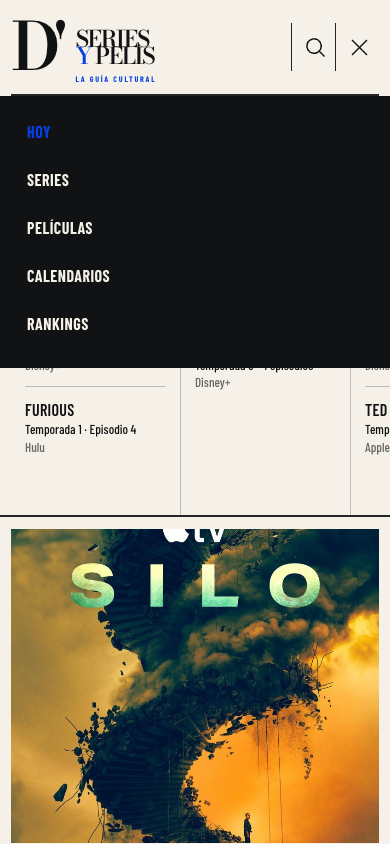
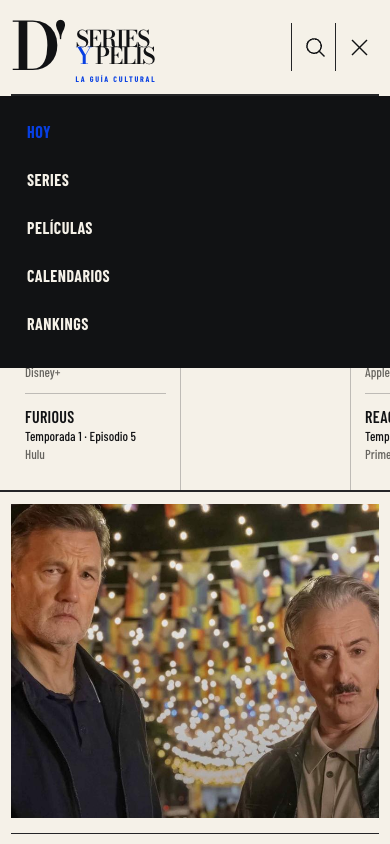
feat: refine editorial data and series statuses

diff --git a/src/app/globals.css b/src/app/globals.css
@@ -47,9 +47,9 @@ main { min-height: 80vh; }
 
 /* Home cover */
 .editorial-hero { padding-top: 14px; }
-.hero-title-row { min-height: 126px; display: flex; flex-direction: column; justify-content: flex-end; border-bottom: 1px solid var(--rule); }
+.hero-title-row { min-height: 126px; padding-bottom: clamp(18px, 1.4vw, 26px); display: flex; flex-direction: column; justify-content: flex-end; border-bottom: 1px solid var(--rule); }
 .hero-title-row > span { margin-bottom: 9px; color: var(--blue); font: 700 11px/1 var(--ui); letter-spacing: .16em; }
-.hero-title-row h1 { margin: 0 0 5px; font: 400 clamp(62px, 7vw, 108px)/.9 var(--display); letter-spacing: -.075em; }
+.hero-title-row h1 { margin: 0; font: 400 clamp(62px, 7vw, 108px)/.9 var(--display); letter-spacing: -.075em; }
 .week-ledger { display: grid; grid-template-columns: repeat(7, 1fr); border-bottom: 2px solid var(--rule); }
 .ledger-day { min-width: 0; min-height: 266px; padding: 18px 14px 14px; border-right: 1px solid var(--soft-rule); }
 .ledger-day:last-child { border-right: 0; }
@@ -85,15 +85,18 @@ main { min-height: 80vh; }
 .button-ghost { color: var(--ink); background: transparent; }
 .premiere-list { padding: 12px 0 0 28px; }
 .premiere-head { height: 32px; display: flex; justify-content: space-between; border-bottom: 2px solid var(--rule); }
-.premiere-head span, .premiere-head a { color: var(--blue); font: 700 13px/1 var(--ui); letter-spacing: .1em; text-transform: uppercase; }
-.premiere-head a { padding-inline: 15px; color: white; background: var(--blue); }
-.premiere-list > a:not(.premiere-all) { min-height: 88px; padding-block: 9px; display: grid; grid-template-columns: 132px 1fr; gap: 14px; border-bottom: 1px solid var(--soft-rule); }
-.premiere-list > a > div { height: 70px; }
-.premiere-list > a > div .poster img { object-position: center 25%; }
-.premiere-list > a > span { display: flex; flex-direction: column; justify-content: center; }
+.premiere-head span { color: var(--blue); font: 700 13px/1 var(--ui); letter-spacing: .1em; text-transform: uppercase; }
+.premiere-tabs { align-self: stretch; display: flex; }
+.premiere-tabs button { padding-inline: 12px; border: 0; border-left: 1px solid var(--rule); color: var(--blue); background: transparent; cursor: pointer; font: 700 11px/1 var(--ui); letter-spacing: .06em; text-transform: uppercase; }
+.premiere-tabs button.active { color: white; background: var(--blue); }
+.premiere-item { min-height: 88px; padding-block: 9px; display: grid; grid-template-columns: 132px 1fr; gap: 14px; border-bottom: 1px solid var(--soft-rule); }
+.premiere-item > div { height: 70px; }
+.premiere-item > div .poster img { object-position: center 25%; }
+.premiere-item > span { display: flex; flex-direction: column; justify-content: center; }
 .premiere-list strong { font: 600 17px/1 var(--ui); text-transform: uppercase; }
 .premiere-list small, .premiere-list em { margin-top: 3px; color: var(--muted); font: 500 12px/1 var(--ui); font-style: normal; }
 .premiere-all { margin-top: 12px; display: flex; align-items: center; gap: 8px; color: var(--blue); font: 700 13px/1 var(--ui); letter-spacing: .05em; text-transform: uppercase; }
+.premiere-empty { min-height: 238px; margin: 0; display: grid; place-items: center; color: var(--muted); border-bottom: 1px solid var(--soft-rule); font: 500 13px/1.3 var(--ui); text-align: center; text-transform: uppercase; }
 
 /* Images and editorial cards */
 .poster { position: relative; width: 100%; height: 100%; overflow: hidden; color: white; background: #202227; }
@@ -107,7 +110,9 @@ main { min-height: 80vh; }
 .media-poster-wrap { position: relative; height: auto; aspect-ratio: 2/3; margin-top: 10px; overflow: hidden; }
 .media-poster-wrap img { transition: transform .35s ease; }
 .media-card:hover .media-poster-wrap img { transform: scale(1.035); }
-.card-status { position: absolute; left: 0; bottom: 0; padding: 7px 10px; color: white; background: var(--blue); font: 700 10px/1 var(--ui); letter-spacing: .08em; text-transform: uppercase; }
+.card-statuses { position: absolute; z-index: 3; left: 0; right: 0; bottom: 0; display: flex; align-items: flex-end; gap: 2px; }
+.card-status { padding: 7px 10px; color: white; background: var(--blue); font: 700 10px/1 var(--ui); letter-spacing: .08em; text-transform: uppercase; }
+.card-status-airing { color: var(--ink); background: var(--acid); }
 .rank-number { position: absolute; z-index: 4; top: 10px; left: 0; min-width: 54px; padding: 7px 9px; color: var(--ink); background: var(--acid); font: 700 28px/.8 var(--ui); }
 .media-card-copy { padding-top: 13px; }
 .media-card h3 { margin: 0 0 7px; overflow: hidden; font: 600 21px/1 var(--ui); letter-spacing: .015em; text-overflow: ellipsis; text-transform: uppercase; white-space: nowrap; }
@@ -319,7 +324,7 @@ main { min-height: 80vh; }
   .edition-stamp { display: none; }
   .brand > strong { font-size: 78px; }.brand > span { font-size: 27px; }
   .main-nav a { padding-inline: 16px; font-size: 16px; }.main-nav a::after { left: 16px; right: 16px; }
-  .hero-feature-grid { grid-template-columns: 1fr 1fr; }.premiere-list { grid-column: 1/-1; padding: 22px 0 0; display: grid; grid-template-columns: repeat(3, 1fr); column-gap: 18px; }.premiere-head, .premiere-all { grid-column: 1/-1; }.daily-pick { border-right: 0; }
+  .hero-feature-grid { grid-template-columns: 1fr 1fr; }.premiere-list { grid-column: 1/-1; padding: 22px 0 0; }.premiere-items { display: grid; grid-template-columns: repeat(3, 1fr); column-gap: 18px; }.daily-pick { border-right: 0; }
   .media-grid { grid-template-columns: repeat(4, 1fr); }
   .week-grid { overflow-x: auto; grid-template-columns: repeat(7, 170px); }
 }
@@ -331,10 +336,10 @@ main { min-height: 80vh; }
   .search-button { grid-column: 2; }.menu-button { grid-column: 3; display: grid; }
   .main-nav { position: absolute; inset: 96px 0 auto; padding: 12px 15px 20px; display: none; grid-template-columns: 1fr; color: var(--paper); background: var(--ink); }
   .main-nav.is-open { display: grid; }.main-nav a { min-height: 48px; justify-items: start; padding: 0 12px; }.main-nav a::after { display: none; }
-  .hero-title-row { min-height: 120px; }.hero-title-row h1 { font-size: 67px; }
+  .hero-title-row { min-height: 120px; padding-bottom: 18px; }.hero-title-row h1 { font-size: 67px; }
   .week-ledger { overflow-x: auto; grid-template-columns: repeat(7, 170px); }.ledger-day { min-height: 240px; }
   .hero-feature-grid { grid-template-columns: 1fr; }.feature-image { height: 420px; padding: 0 0 15px; border-right: 0; border-bottom: 1px solid var(--rule); }.daily-pick { padding: 24px 0; border-bottom: 1px solid var(--rule); }
-  .premiere-list { grid-template-columns: 1fr; }.premiere-head, .premiere-all { grid-column: auto; }
+  .premiere-items { grid-template-columns: 1fr; }
   .media-grid { grid-template-columns: repeat(3, 1fr); }
   .episode-rail { grid-template-columns: 1fr; }.episode-tile:nth-child(odd), .episode-tile:nth-child(even) { padding: 10px 0; border-right: 0; }
   .split-feature { grid-template-columns: 1fr; }.movie-fan { height: 360px; }
@@ -349,7 +354,7 @@ main { min-height: 80vh; }
 
 @media (max-width: 560px) {
   .shell { width: calc(100% - 22px); }.section { padding-block: 54px; }
-  .editorial-hero { padding-top: 6px; }.hero-title-row { min-height: 104px; }.hero-title-row h1 { font-size: 49px; }
+  .editorial-hero { padding-top: 6px; }.hero-title-row { min-height: 104px; padding-bottom: 12px; }.hero-title-row h1 { font-size: 49px; }
   .hero-title-row > span { font-size: 9px; }.week-ledger { margin-inline: -11px; padding-left: 11px; }
   .feature-image { height: 330px; }.daily-pick h2 { font-size: 51px; }.daily-pick > p:last-of-type { min-height: auto; }
   .premiere-list > a:not(.premiere-all) { grid-template-columns: 105px 1fr; }

diff --git a/src/features/home/components/hero.tsx b/src/features/home/components/hero.tsx
@@ -1,6 +1,7 @@
 import Link from "next/link";
 import { ArrowRight } from "@phosphor-icons/react/dist/ssr";
 import { Poster } from "@/features/catalog/components/poster";
+import { PremiereList } from "@/features/home/components/premiere-list";
 import type { EpisodeEvent, MediaItem } from "@/shared/lib/types";
 
 const dayNames = ["DOM", "LUN", "MAR", "MIÉ", "JUE", "VIE", "SÁB"];
@@ -18,12 +19,7 @@ function dateKey(date: Date) {
   return `${date.getFullYear()}-${String(date.getMonth() + 1).padStart(2, "0")}-${String(date.getDate()).padStart(2, "0")}`;
 }
 
-function formatPremiere(value?: string) {
-  if (!value) return "Fecha por confirmar";
-  return new Intl.DateTimeFormat("es-CL", { day: "numeric", month: "long" }).format(new Date(`${value}T12:00:00`));
-}
-
-export function Hero({ featured, episodes, premieres }: { featured: MediaItem; episodes: EpisodeEvent[]; premieres: MediaItem[] }) {
+export function Hero({ featured, episodes, seriesPremieres, moviePremieres }: { featured: MediaItem; episodes: EpisodeEvent[]; seriesPremieres: MediaItem[]; moviePremieres: MediaItem[] }) {
   const today = new Date();
   const start = startOfWeek(today);
   const days = Array.from({ length: 7 }, (_, index) => {
@@ -72,16 +68,7 @@ export function Hero({ featured, episodes, premieres }: { featured: MediaItem; e
           <p>{recommendation}</p>
           <Link className="button button-primary" href={`/series/${featured.slug}`}>Ver ficha <ArrowRight size={18} /></Link>
         </article>
-        <aside className="premiere-list">
-          <div className="premiere-head"><span>Próximos estrenos</span><Link href="/peliculas/calendario">PELÍCULAS</Link></div>
-          {premieres.slice(0, 3).map((item) => (
-            <Link href={item.kind === "movie" ? `/peliculas/${item.slug}` : `/series/${item.slug}`} key={item.id}>
-              <div><Poster title={item.title} url={item.posterUrl} tone={item.posterTone} /></div>
-              <span><strong>{item.title}</strong><small>{formatPremiere(item.premiereDate ?? item.releaseDate)}</small><em>{item.platform}</em></span>
-            </Link>
-          ))}
-          <Link className="premiere-all" href="/estrenos">Ver todos los estrenos <ArrowRight size={16} /></Link>
-        </aside>
+        <PremiereList series={seriesPremieres} movies={moviePremieres} />
       </div>
     </section>
   );

diff --git a/src/server/notion/client.ts b/src/server/notion/client.ts
@@ -124,7 +124,9 @@ function normalizeSeriesPage(page: NotionPage, index = 0): MediaItem | undefined
     const title = text(p["Título"] ?? p["Titulo"] ?? p["Name"]);
     if (!title) return undefined;
     const premiereDate = date(p["FechaInicio"] ?? p["Estreno"]);
-    const renewal = text(p["Renovacion"] ?? p["Renovación"] ?? p["Estado"]);
+    const renewalStatus = text(p["Renovacion"] ?? p["Renovación"]);
+    const airingStatus = text(p["EstadoEmision"] ?? p["Estado Emision"] ?? p["Estado Emisión"]);
+    const legacyStatus = text(p["Estado"]);
     const imdbText = text(p["IMDB"]);
     const imdbScore = Number.parseFloat(imdbText.replace(",", "."));
 
@@ -150,7 +152,9 @@ function normalizeSeriesPage(page: NotionPage, index = 0): MediaItem | undefined
       watchedEpisodes: number(p["EpisodiosVistos"]),
       premiereDate,
       finaleDate: date(p["FechaFin"]),
-      status: mapStatus(renewal, premiereDate),
+      status: mapStatus(renewalStatus || airingStatus || legacyStatus, premiereDate),
+      renewalStatus: renewalStatus || undefined,
+      airingStatus: airingStatus || undefined,
       imdbUrl: /^https?:/.test(imdbText) ? imdbText : undefined,
       featured: index === 0,
     };
@@ -204,16 +208,24 @@ export async function getNotionTopSeries(): Promise<MediaItem[]> {
   if (!sourceId) return [];
   const pages = await queryDataSource(sourceId, {
     filter: { and: [
+      { property: "UltimaEmitida", checkbox: { equals: true } },
       { property: "IMDB", rich_text: { is_not_empty: true } },
       { property: "IMDB", rich_text: { does_not_equal: "?" } },
     ] },
     sorts: [{ property: "IMDB", direction: "descending" }],
-  }, 100);
-  return pages
+  }, 150);
+  const ranked = pages
     .flatMap((page, index) => normalizeSeriesPage(page, index) ?? [])
     .filter((series) => series.score != null)
-    .sort((a, b) => (b.score ?? 0) - (a.score ?? 0))
-    .slice(0, 50);
+    .sort((a, b) => (b.score ?? 0) - (a.score ?? 0));
+
+  const uniqueByTitle = new Map<string, MediaItem>();
+  for (const series of ranked) {
+    const titleKey = slugify(series.title);
+    if (!uniqueByTitle.has(titleKey)) uniqueByTitle.set(titleKey, series);
+  }
+
+  return [...uniqueByTitle.values()].slice(0, 50);
 }
 
 export async function getNotionSeriesById(pageId: string): Promise<MediaItem | undefined> {

diff --git a/src/app/page.tsx b/src/app/page.tsx
@@ -7,18 +7,26 @@ import { DemoNotice } from "@/shared/components/demo-notice";
 import { SectionHeading } from "@/shared/components/section-heading";
 import { getContentHub, sortByDate, sortByScore } from "@/server/notion/content";
 
+function santiagoDateKey() {
+  const parts = new Intl.DateTimeFormat("en-US", { timeZone: "America/Santiago", year: "numeric", month: "2-digit", day: "2-digit" }).formatToParts(new Date());
+  const value = Object.fromEntries(parts.map((part) => [part.type, part.value]));
+  return `${value.year}-${value.month}-${value.day}`;
+}
+
 export default async function Home() {
   const hub = await getContentHub();
-  const featured = hub.series.find((item) => item.featured) ?? hub.series[0];
-  const premieres = sortByDate(hub.series, "premiereDate");
+  const today = santiagoDateKey();
+  const recommendationPool = sortByScore(hub.series).filter((item) => item.posterUrl && (item.score ?? 0) >= 7).slice(0, 30);
+  const dayNumber = Math.floor(Date.parse(`${today}T00:00:00Z`) / 86_400_000);
+  const featured = recommendationPool[dayNumber % recommendationPool.length] ?? hub.series.find((item) => item.posterUrl) ?? hub.series[0];
+  const seriesPremieres = sortByDate(hub.series, "premiereDate").filter((item) => (item.premiereDate ?? "") >= today).slice(0, 12);
+  const moviePremieres = sortByDate(hub.movies, "releaseDate").filter((item) => (item.releaseDate ?? "") >= today).slice(0, 12);
   const ranking = sortByScore(hub.series).slice(0, 5);
   const episodes = [...hub.episodes].sort((a, b) => a.date.localeCompare(b.date)).slice(0, 4);
-  const premiereRail = [...hub.movies, ...premieres].filter((item) => item.releaseDate || item.premiereDate).sort((a, b) => (a.releaseDate ?? a.premiereDate ?? "").localeCompare(b.releaseDate ?? b.premiereDate ?? ""));
-  const illustratedPremieres = [...premiereRail.filter((item) => item.posterUrl), ...premiereRail.filter((item) => !item.posterUrl)].slice(0, 3);
 
   return (
     <>
-      <Hero featured={featured} episodes={hub.episodes} premieres={illustratedPremieres} />
+      <Hero featured={featured} episodes={hub.episodes} seriesPremieres={seriesPremieres} moviePremieres={moviePremieres} />
       <DemoNotice visible={hub.isDemo} />
 
       <section className="section shell home-agenda-more">

diff --git a/src/server/notion/content.ts b/src/server/notion/content.ts
@@ -150,16 +150,16 @@ const getCachedMovieDetail = unstable_cache(async (pageId: string) => getNotionM
   tags: ["notion-movie-detail"],
 });
 
-const getCachedSeriesDetail = unstable_cache(async (pageId: string) => getNotionSeriesById(pageId), ["d-series-series-detail-v4"], {
+const getCachedSeriesDetail = unstable_cache(async (pageId: string) => getNotionSeriesById(pageId), ["d-series-series-detail-v5"], {
   revalidate: 900,
   tags: ["notion-series-detail"],
 });
 
-export const getSeriesCatalogHub = unstable_cache(loadSeriesCatalog, ["d-series-series-catalog-v4"], { revalidate: 900, tags: ["notion-series-catalog"] });
-export const getSeriesPremiereHub = unstable_cache(loadSeriesPremieres, ["d-series-series-premieres-v4"], { revalidate: 900, tags: ["notion-series-premieres"] });
-export const getSeriesFinaleHub = unstable_cache(loadSeriesFinales, ["d-series-series-finales-v4"], { revalidate: 900, tags: ["notion-series-finales"] });
+export const getSeriesCatalogHub = unstable_cache(loadSeriesCatalog, ["d-series-series-catalog-v5"], { revalidate: 900, tags: ["notion-series-catalog"] });
+export const getSeriesPremiereHub = unstable_cache(loadSeriesPremieres, ["d-series-series-premieres-v5"], { revalidate: 900, tags: ["notion-series-premieres"] });
+export const getSeriesFinaleHub = unstable_cache(loadSeriesFinales, ["d-series-series-finales-v5"], { revalidate: 900, tags: ["notion-series-finales"] });
 export const getEpisodeWeekHub = unstable_cache(loadEpisodeWeek, ["d-series-episode-week-v4"], { revalidate: 900, tags: ["notion-episode-week"] });
-export const getSeriesRankingHub = unstable_cache(loadSeriesRanking, ["d-series-series-ranking-v4"], { revalidate: 900, tags: ["notion-series-ranking"] });
+export const getSeriesRankingHub = unstable_cache(loadSeriesRanking, ["d-series-series-ranking-v6"], { revalidate: 900, tags: ["notion-series-ranking"] });
 export const getMovieLandingHub = unstable_cache(loadMovieLanding, ["d-series-movie-landing-v4"], { revalidate: 900, tags: ["notion-movie-landing"] });
 export const getMovieCalendarHub = unstable_cache(loadMovieCalendar, ["d-series-movie-calendar-v5"], { revalidate: 900, tags: ["notion-movie-calendar"] });
 

diff --git a/src/features/home/components/premiere-list.tsx b/src/features/home/components/premiere-list.tsx
@@ -1,0 +1,40 @@
+"use client";
+
+import Link from "next/link";
+import { ArrowRight } from "@phosphor-icons/react";
+import { useState } from "react";
+import { Poster } from "@/features/catalog/components/poster";
+import type { MediaItem } from "@/shared/lib/types";
+
+function formatPremiere(value?: string) {
+  if (!value) return "Fecha por confirmar";
+  return new Intl.DateTimeFormat("es-CL", { day: "numeric", month: "long", year: "numeric" }).format(new Date(`${value}T12:00:00`));
+}
+
+export function PremiereList({ series, movies }: { series: MediaItem[]; movies: MediaItem[] }) {
+  const [kind, setKind] = useState<"series" | "movies">(series.length ? "series" : "movies");
+  const items = kind === "series" ? series : movies;
+  const allHref = kind === "series" ? "/estrenos" : "/peliculas/calendario";
+
+  return (
+    <aside className="premiere-list">
+      <div className="premiere-head">
+        <span>Próximos estrenos</span>
+        <div className="premiere-tabs" aria-label="Tipo de estreno">
+          <button aria-pressed={kind === "series"} className={kind === "series" ? "active" : ""} onClick={() => setKind("series")}>Series</button>
+          <button aria-pressed={kind === "movies"} className={kind === "movies" ? "active" : ""} onClick={() => setKind("movies")}>Películas</button>
+        </div>
+      </div>
+      <div className="premiere-items">
+        {items.slice(0, 3).map((item) => (
+          <Link className="premiere-item" href={item.kind === "movie" ? `/peliculas/${item.slug}` : `/series/${item.slug}`} key={item.id}>
+            <div><Poster title={item.title} url={item.posterUrl} tone={item.posterTone} /></div>
+            <span><strong>{item.title}</strong><small>{formatPremiere(item.premiereDate ?? item.releaseDate)}</small><em>{item.platform}</em></span>
+          </Link>
+        ))}
+        {!items.length && <p className="premiere-empty">No hay estrenos futuros registrados.</p>}
+      </div>
+      <Link className="premiere-all" href={allHref}>Ver todos los estrenos <ArrowRight size={16} /></Link>
+    </aside>
+  );
+}

diff --git a/src/features/catalog/components/media-card.tsx b/src/features/catalog/components/media-card.tsx
@@ -5,12 +5,20 @@ import { Poster } from "@/features/catalog/components/poster";
 
 export function MediaCard({ item, rank }: { item: MediaItem; rank?: number }) {
   const href = item.kind === "series" ? `/series/${item.slug}` : `/peliculas/${item.slug}`;
+  const seriesStatuses = item.kind === "series" ? [
+    ...(item.renewalStatus ? [{ label: item.renewalStatus, field: "Renovación", className: "" }] : []),
+    ...(item.airingStatus ? [{ label: item.airingStatus, field: "Estado de emisión", className: "card-status-airing" }] : []),
+  ] : [];
+  const cardStatuses = seriesStatuses.length ? seriesStatuses : [{ label: item.status, field: "Estado", className: "" }];
+
   return (
     <Link className="media-card" href={href}>
       <div className="media-poster-wrap">
         {rank != null && <span className="rank-number">{String(rank).padStart(2, "0")}</span>}
         <Poster title={item.title} url={item.posterUrl} tone={item.posterTone} />
-        <span className="card-status">{item.status}</span>
+        <div className="card-statuses">
+          {cardStatuses.map((status) => <span className={`card-status ${status.className}`} title={`${status.field}: ${status.label}`} key={status.field}>{status.label}</span>)}
+        </div>
       </div>
       <div className="media-card-copy">
         <h3>{item.title}</h3>

diff --git a/src/shared/lib/types.ts b/src/shared/lib/types.ts
@@ -41,6 +41,8 @@ export interface MediaItem {
   interested?: boolean;
   runtime?: number;
   status: MediaStatus;
+  renewalStatus?: string;
+  airingStatus?: string;
   imdbUrl?: string;
   featured?: boolean;
 }
